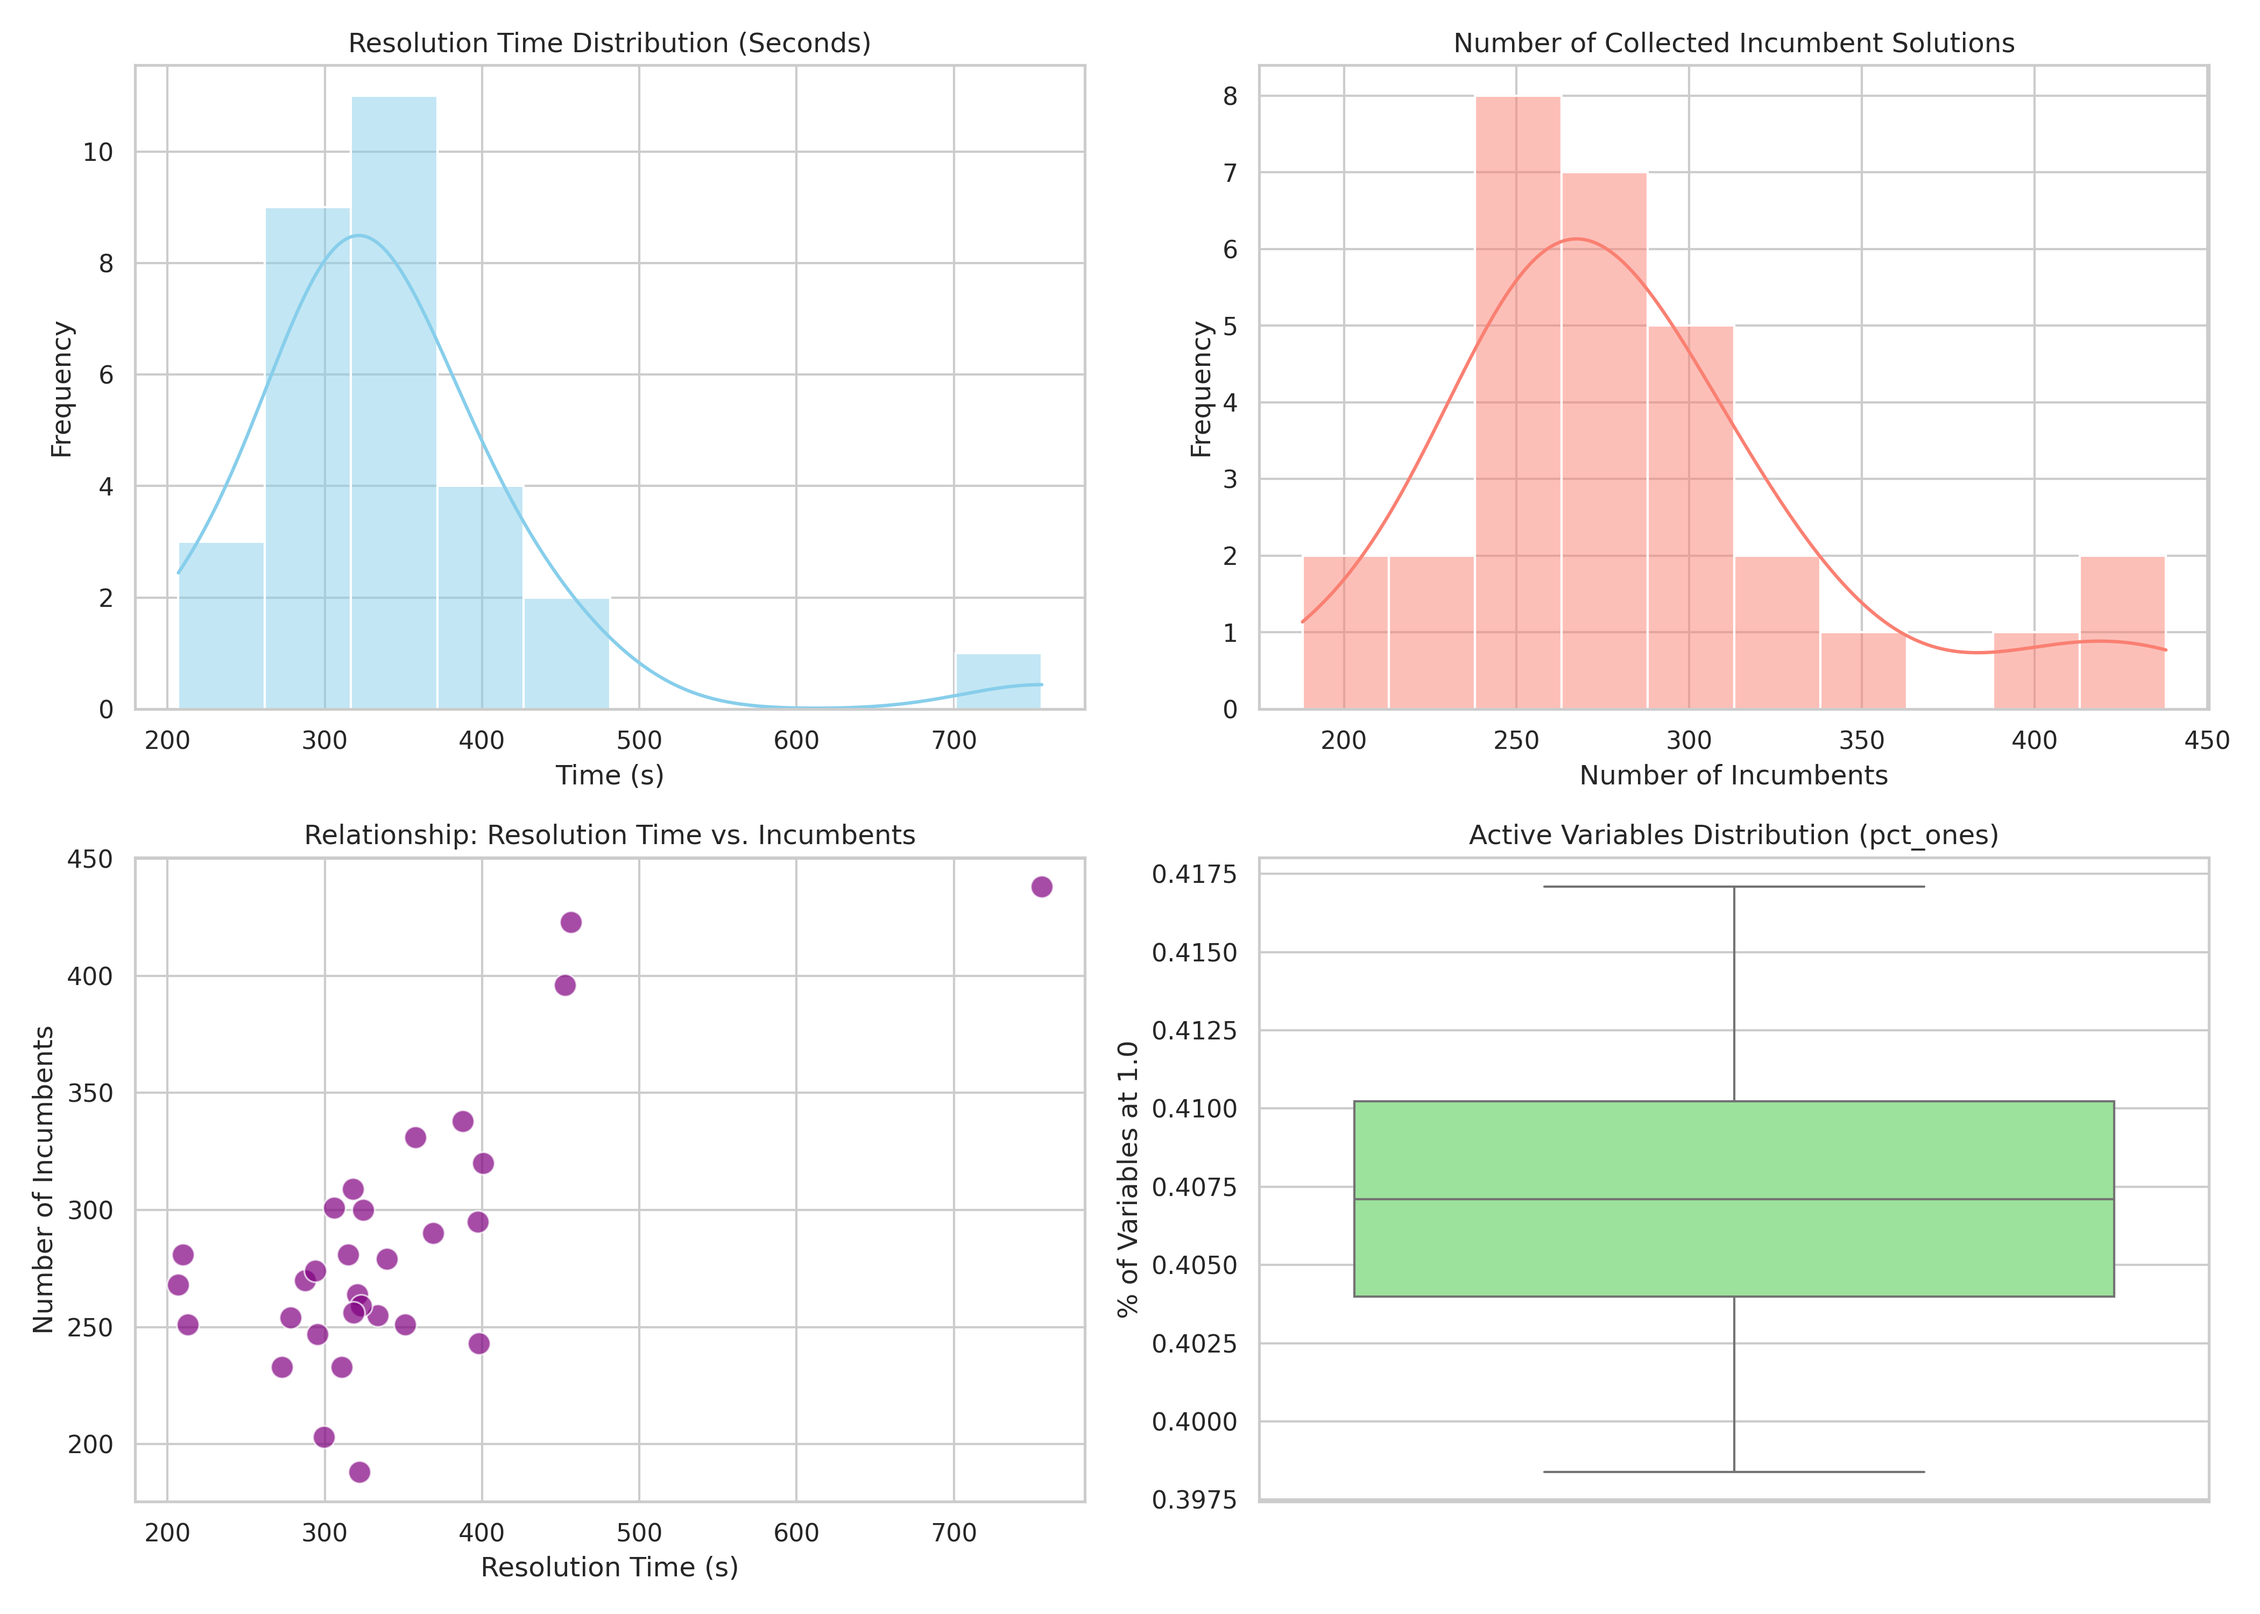
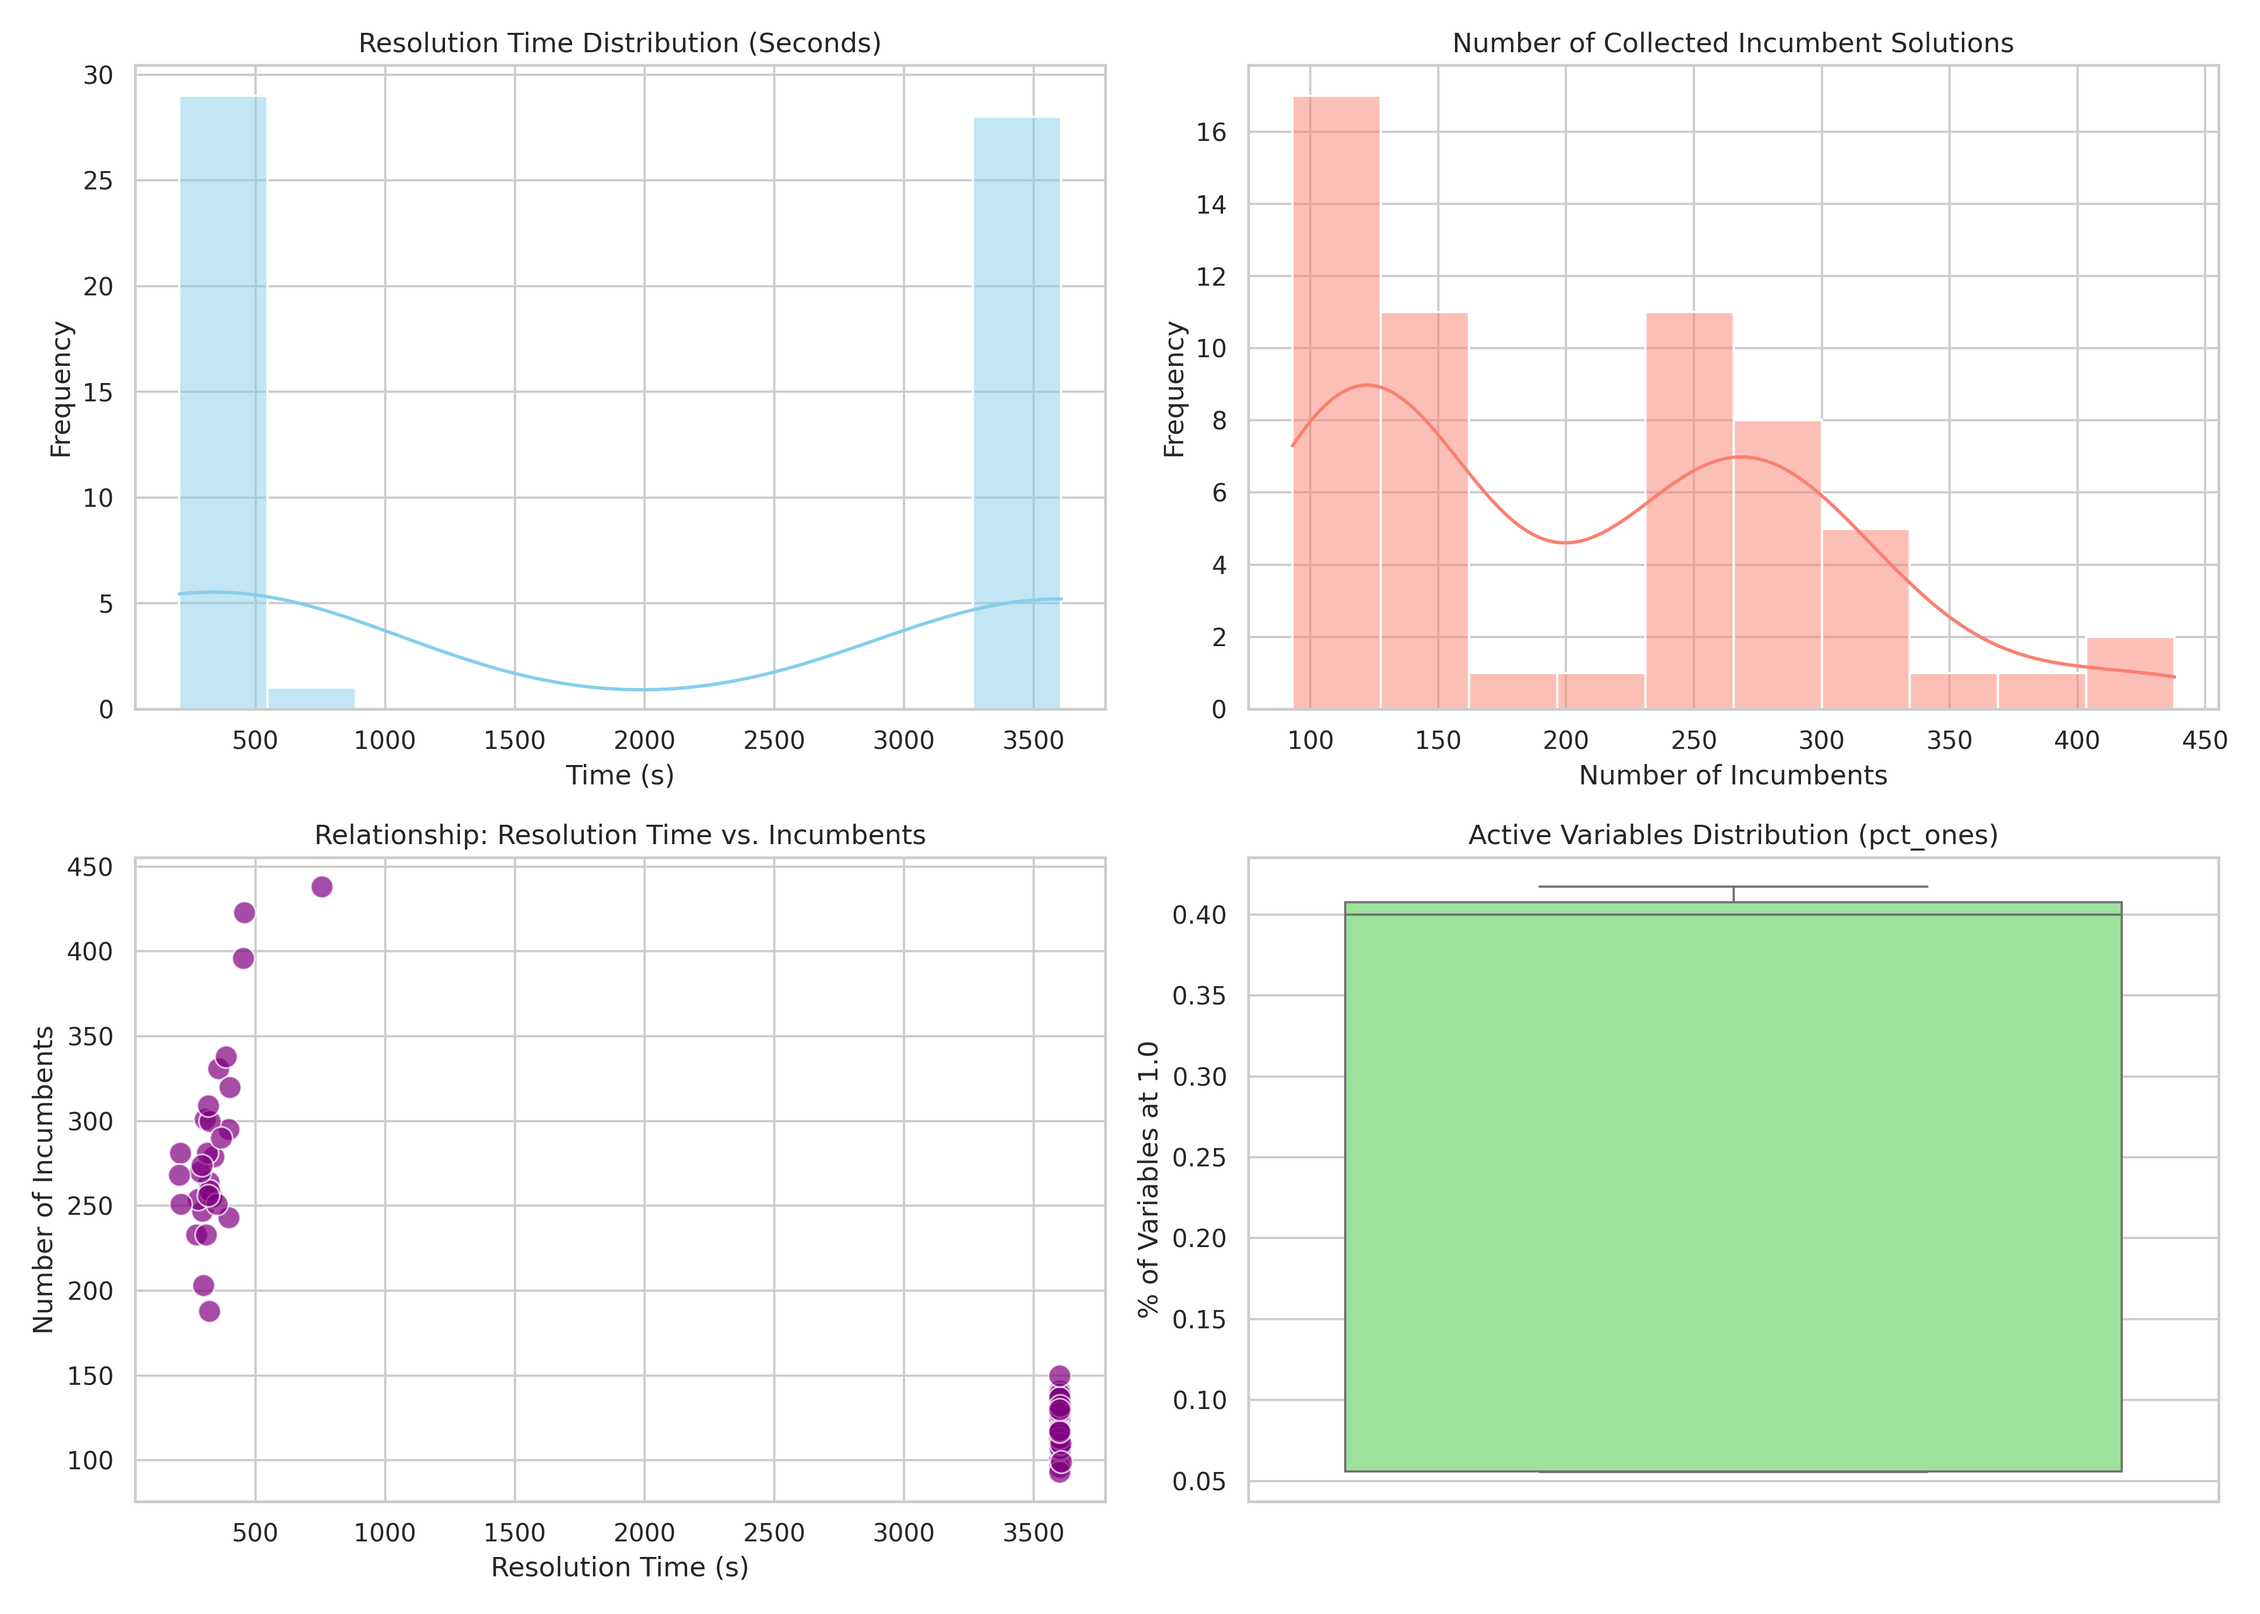
update files

diff --git a/src/graph_transform/build_pyg_dataset_v5.py b/src/graph_transform/build_pyg_dataset_v5.py
@@ -32,6 +32,7 @@ import numpy as np
 import pandas as pd
 import torch
 import gc
+import pyarrow.parquet as pq
 from torch_geometric.data import HeteroData
 from tqdm import tqdm
 from collections import namedtuple
@@ -190,14 +191,18 @@ def build_heterodata(
 # Per-Instance ETL Processing (Memory Optimized)
 # ---------------------------------------------------------------------------
 
+# ---------------------------------------------------------------------------
+# Per-Instance ETL Processing (Extreme Memory Optimization via Streaming)
+# ---------------------------------------------------------------------------
+
 def process_instance(inst_dir: str,
                      global_idx_start: int,
                      processed_dir: str,
                      metadata: dict) -> int:
     """
-    Reads a specific instance directory and generates PyG .pt files for 
-    every qualifying solution present in the incumbents parquet.
-    Optimized via Base-Graph cloning to prevent Out-Of-Memory (OOM) errors.
+    Reads a specific instance directory and generates PyG .pt files.
+    Optimized via Base-Graph cloning AND Parquet batch-streaming to strictly
+    prevent Out-Of-Memory (OOM) errors on large MILP instances.
     """
     features_path    = os.path.join(inst_dir, "original_features.pickle.gz")
     incumbents_path  = os.path.join(inst_dir, "incumbents.parquet")
@@ -209,6 +214,7 @@ def process_instance(inst_dir: str,
         return 0
 
     try:
+        # 1. Load static graph topology
         with gzip.open(features_path, 'rb') as fh:
             raw = pickle.load(fh)
             
@@ -218,22 +224,15 @@ def process_instance(inst_dir: str,
         edge_indices        = raw['edge_indices']
         edge_features       = raw['edge_features']
 
-        df_incumbents = pd.read_parquet(incumbents_path)
-        if df_incumbents.empty:
-            return 0
-
+        # 2. Safely fetch LP relaxation ONLY for the root node
+        # Using filters prevents loading the entire relaxation tree into RAM
         lp_vector_root = np.zeros(model_features.num_vars)
         if os.path.exists(relaxations_path):
-            df_relax = pd.read_parquet(relaxations_path)
-            root_relax = df_relax[df_relax['node'] == 0]
-            if not root_relax.empty:
-                lp_vector_root = np.array(root_relax.iloc[0]['relaxation_vector'])
-            elif not df_relax.empty:
+            df_relax = pd.read_parquet(relaxations_path, filters=[('node', '==', 0)])
+            if not df_relax.empty:
                 lp_vector_root = np.array(df_relax.iloc[0]['relaxation_vector'])
 
-        # --- MEMORY OPTIMIZATION CORE ---
-        # Build the graph topology ONLY ONCE per instance.
-        # This saves massive amounts of CPU and prevents RAM fragmentation.
+        # 3. Build the Base Graph ONCE per instance
         dummy_sol = np.zeros(model_features.num_vars)
         base_graph = build_heterodata(
             model_features    = model_features,
@@ -257,39 +256,50 @@ def process_instance(inst_dir: str,
         graphs_generated   = 0
         current_global_idx = global_idx_start
 
-        for _, row in df_incumbents.iterrows():
-            try:
-                row_gap = float(row['mip_gap'])
-            except (ValueError, KeyError):
-                row_gap = 1.0
-
-            if row_gap > MAX_MIP_GAP:
-                continue
-
-            sol_vector = np.array(row['solution_vector'])
-
-            # Clone the base topology instead of recalculating everything
-            graph = base_graph.clone()
+        # 4. STREAMING PARQUET (The Ultimate OOM Fix)
+        # Instead of loading all solutions, we stream them 50 at a time.
+        parquet_file = pq.ParquetFile(incumbents_path)
+        
+        for batch in parquet_file.iter_batches(batch_size=50):
+            df_chunk = batch.to_pandas()
             
-            # Inject solution-specific labels
-            graph['variable'].y = torch.FloatTensor(sol_vector)
-            graph.mip_gap       = float(row_gap)
-            graph.exec_time     = float(row.get('time', 0.0))
-            graph.is_optimal    = bool(row_gap <= 1e-4)
-            graph.incumbent_node = int(row.get('node', -1))
+            for _, row in df_chunk.iterrows():
+                try:
+                    row_gap = float(row['mip_gap'])
+                except (ValueError, KeyError):
+                    row_gap = 1.0
 
-            out_file = os.path.join(processed_dir, f"data_{current_global_idx}.pt")
-            torch.save(graph, out_file)
-            
-            current_global_idx += 1
-            graphs_generated   += 1
-            
-            # Force memory release for this specific graph tensor
-            del graph
+                if row_gap > MAX_MIP_GAP:
+                    continue
 
-        # Aggressive garbage collection after processing the instance
+                sol_vector = np.array(row['solution_vector'])
+                
+                # Clone the base topology
+                graph = base_graph.clone()
+                
+                # Inject solution-specific labels
+                graph['variable'].y = torch.FloatTensor(sol_vector)
+                graph.mip_gap       = float(row_gap)
+                graph.exec_time     = float(row.get('time', 0.0))
+                graph.is_optimal    = bool(row_gap <= 1e-4)
+                graph.incumbent_node = int(row.get('node', -1))
+
+                out_file = os.path.join(processed_dir, f"data_{current_global_idx}.pt")
+                torch.save(graph, out_file)
+                
+                current_global_idx += 1
+                graphs_generated   += 1
+                
+                # Clear individual graph tensor
+                del graph
+                
+            # Force memory release for this chunk before loading the next 50 solutions
+            del df_chunk
+            gc.collect()
+
+        # Final aggressive garbage collection
         del base_graph, raw, model_features, variable_features, constraint_features
-        del edge_indices, edge_features, df_incumbents
+        del edge_indices, edge_features
         gc.collect()
 
         return graphs_generated

diff --git a/src/data_transformation/cfl_gnn_data_generator_v7.py b/src/data_transformation/cfl_gnn_data_generator_v7.py
@@ -55,6 +55,7 @@ import pickle
 import gzip
 import logging
 import argparse
+import gc
 from pathlib import Path
 from datetime import datetime
 from typing import Dict, List, Optional, Tuple, Any
@@ -110,7 +111,7 @@ class DataCollectionCallback:
     - MIPSOL_PHASE == 1 filter (only B&B search solutions)
     """
     
-    BUFFER_LIMIT = 500  # Flush to disk when buffer reaches this size
+    BUFFER_LIMIT = 50  # Flush to disk when buffer reaches this size (reduced from 500 to 50)
     
     def __init__(self, model: gp.Model, instance_dir: str):
         """
@@ -782,7 +783,15 @@ def process_single_instance(
         
         logger.info(f"  [SUCCESS] Instance processed: {callback.total_incumbents_written} incumbents, "
                    f"{callback.total_nodes_written} nodes")
-        
+
+        # Liberate Gurobi internal memory and Python references
+        model.dispose() # Free Gurobi internal memory
+        del model
+        del callback
+        del features
+        del pool
+        gc.collect()    # Force Python to liberate RAM
+
         return metadata
     
     except Exception as e:
